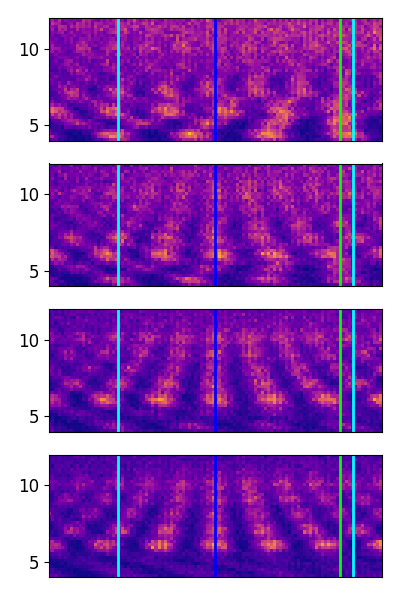
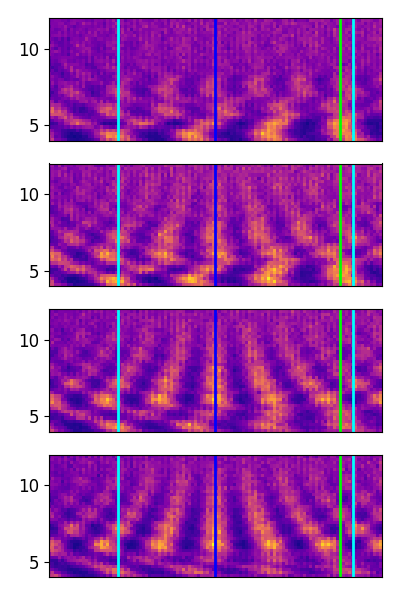
Updated Figure 5

diff --git a/figure5/figure5b.py b/figure5/figure5b.py
@@ -11,7 +11,7 @@ sys.path.append(os.getcwd())
 from functools import partial
 
 
-def prep_ep(F0, level, level_maskers, level_noise, fs=int(100e3)):
+def prep_ep(F0, level, level_maskers, level_noise, fs=int(100e3), fiber_type='msr'):
     """ Helper function for plotting excitation patterns
 
     Args:
@@ -37,7 +37,7 @@ def prep_ep(F0, level, level_maskers, level_noise, fs=int(100e3)):
                            level_masker_1=lambda: np.random.uniform(level_maskers-3, level+3, n_freq_masker_1),  # levels
                            level_masker_2=lambda: np.random.uniform(level_maskers-3, level+3, n_freq_masker_2),  # levels
                            ten=True, level_noise=level_noise,                                                    # noise
-                           cf_low=F0 * 4, cf_high=F0 * 12, n_cf=200, fiber_type='msr',                           # anf
+                           cf_low=F0 * 4, cf_high=F0 * 12, n_cf=200, fiber_type=fiber_type,                      # anf
                            fs=fs)
 
     return params
@@ -65,7 +65,7 @@ def handle_labels_and_axes(axis_main, first, title):
 
 
 
-def plot_ep(axis_main, F0, level, level_maskers, level_noise, title, first, color, fs=int(100e3)):
+def plot_ep(axis_main, F0, level, level_maskers, level_noise, title, first, color, fs=int(100e3), fiber_type='msr'):
     """ Function to plot excitation pattern of DBL tones from Experiment 2
 
     Args:
@@ -80,7 +80,7 @@ def plot_ep(axis_main, F0, level, level_maskers, level_noise, title, first, colo
         fs (int): sampling rate, in Hz
     """
     # Get params
-    params = prep_ep(F0, level, level_maskers, level_noise, fs)
+    params = prep_ep(F0, level, level_maskers, level_noise, fs, fiber_type)
     params.append(['F0', 'level'], [F0, lambda: np.random.uniform(level-3, level+3, len(np.arange(F0, 48000 / 2, F0)))])
     params.repeat(10)
     # Synthesize stimuli
@@ -97,23 +97,38 @@ def plot_ep(axis_main, F0, level, level_maskers, level_noise, title, first, colo
     firing_rates = np.array([np.mean(r, axis=1) for r in resp])
     mean_response = np.mean(firing_rates, axis=0)
     sd_response = np.std(firing_rates, axis=0)
-    # Plot
+    # Plot masker components
+    for harmonic in [2, 3, 4, 5, 6, 7, 8, 8, 10, 11, 12]:
+        idx_min = np.argmin(np.abs(cfs/F0 - harmonic*2**(6/12)))
+        axis_main.plot([harmonic*2**(6/12), harmonic*2**(6/12)], [0, mean_response[idx_min]], color='cyan',
+                       linestyle='dashed', label='_nolegend_')
+        idx_min = np.argmin(np.abs(cfs/F0 - harmonic*2**(-5.5/12)))
+        axis_main.plot([harmonic*2**(-5.5/12), harmonic*2**(-5.5/12)], [0, mean_response[idx_min]], color=[0, 1, 0],
+                       linestyle='dashed', label='_nolegend_')
+    # Plot target components
     for harmonic in [6, 7, 8, 9, 10]:
-        axis_main.plot([harmonic, harmonic], [0, 250], color='gray', linestyle='dashed', label='_nolegend_')
+        idx_min = np.argmin(np.abs(cfs/F0 - harmonic))
+        axis_main.plot([harmonic, harmonic], [0, mean_response[idx_min]], color='blue', linestyle='dashed',
+                       label='_nolegend_', linewidth=2)
     axis_main.plot(cfs/F0, mean_response, color=color)
     axis_main.fill_between(cfs/F0, mean_response - sd_response, mean_response + sd_response,
                            color=color, alpha=0.2, label='_nolegend_')
     # Handle labels and axes
     handle_labels_and_axes(axis_main, first, title)
-    axis_main.set_ylim((50, 250))
+    if fiber_type == 'hsr':
+        axis_main.set_ylim((0, 375))
+    elif fiber_type == 'msr':
+        axis_main.set_ylim((0, 250))
+    else:
+        axis_main.set_ylim((0, 50))
 
 
-f, axs = plt.subplots(4, 1, figsize=(4, 6), sharex='all')
-for ax, tmr in zip(axs, [0, 5, 10, 15]):
-    plot_ep(ax, 1400, 50, 50-tmr, 40, '1400 Hz', False, '#a28ac1')
+# Plot excitation patterns for HSR and LSR fibers at various TMRs
+f, axs = plt.subplots(4, 2, figsize=(6, 6), sharex='all')
+tmrs = [0, 4, 8, 12]
+fiber_types = ['hsr', 'lsr']
+for idx_tmr in range(4):
+    for idx_fiber_type in range(2):
+        plot_ep(axs[idx_tmr, idx_fiber_type], 1400, 50, 50 - tmrs[idx_tmr], 40, '1400 Hz', False, '#a28ac1',
+                fiber_type=fiber_types[idx_fiber_type])
 plt.savefig('plots/fig5b1.png', bbox_inches='tight')
-
-f, ax = plt.subplots(1, 1, figsize=(4, 3), sharex='all')
-for tmr in [0, 5, 10, 15]:
-    plot_ep(ax, 1400, 50, 50-tmr, 40, '1400 Hz', False, '#a28ac1')
-plt.savefig('plots/fig5e.png', bbox_inches='tight')

diff --git a/figure5/figure5a.py b/figure5/figure5a.py
@@ -26,7 +26,7 @@ def calculate_ISI_histogram(f0, neural_harm_nums, tmr):
         histograms (list): list of histograms counts for ISI histogram for each neural harmonic number
     """
     # Setup params [simulation]
-    params = si.Parameters(fs=int(200e3), n_cf=1, anf_num=(0, 1, 0),                                          # model
+    params = si.Parameters(fs=int(200e3), n_cf=1, anf_num=(1, 0, 0),                                          # model
                            F0=280, F0_masker_1=280*2**(-5.5/12), F0_masker_2=280*2**(6/12),                   # F0s
                            level=50, level_masker_1=50-tmr, level_masker_2=50-tmr,                            # levels
                            phase=0, phase_masker_1=0, phase_masker_2=0,                                       # phases
@@ -66,7 +66,9 @@ def calculate_ISI_histogram(f0, neural_harm_nums, tmr):
     # Return
     return histograms
 
-for tmr in [0, 5, 10, 15]:
+tmrs = [0, 4, 8, 12]  # set TMR for each simulation
+
+for tmr in tmrs:
     # Calculate ISI histograms for one Larsen and Delgutte (2008) stimulus and save to disk
     histograms = calculate_ISI_histogram(280, np.linspace(4, 12, 40), tmr=tmr)
     np.save('figure5/isi_histograms_tmr_' + str(tmr) + '.npy', histograms)
@@ -74,7 +76,7 @@ for tmr in [0, 5, 10, 15]:
 
 # Create main plot (part a)
 fig, ax = plt.subplots(4, 1, figsize=(7, 9), sharex='all')
-for idx_tmr, tmr in enumerate([0, 5, 10, 15]):
+for idx_tmr, tmr in enumerate(tmrs):
     # Load in histograms and calculate edges
     histograms = np.load('figure5/isi_histograms_tmr_' + str(tmr) + '.npy')
     neural_harm_nums = np.load('figure5/neural_harm_nums_tmr_' + str(tmr) + '.npy')
@@ -93,7 +95,7 @@ plt.savefig('plots/fig5a1.png')
 
 # Create subplot (part b)
 fig, ax = plt.subplots(4, 1, figsize=(4, 6), sharex='all')
-for idx_tmr, tmr in enumerate([0, 5, 10, 15]):
+for idx_tmr, tmr in enumerate(tmrs):
     # Load in histograms and calculate edges
     histograms = np.load('figure5/isi_histograms_tmr_' + str(tmr) + '.npy')
     neural_harm_nums = np.load('figure5/neural_harm_nums_tmr_' + str(tmr) + '.npy')
@@ -115,7 +117,7 @@ plt.savefig('plots/fig5a2.png')
 
 # Create subplot (part c)
 fig, ax = plt.subplots(4, 1, figsize=(4, 6), sharex='all')
-for idx_tmr, tmr in enumerate([0, 5, 10, 15]):
+for idx_tmr, tmr in enumerate(tmrs):
     # Load in histograms and calculate edges
     histograms = np.load('figure5/isi_histograms_tmr_' + str(tmr) + '.npy')
     neural_harm_nums = np.load('figure5/neural_harm_nums_tmr_' + str(tmr) + '.npy')
